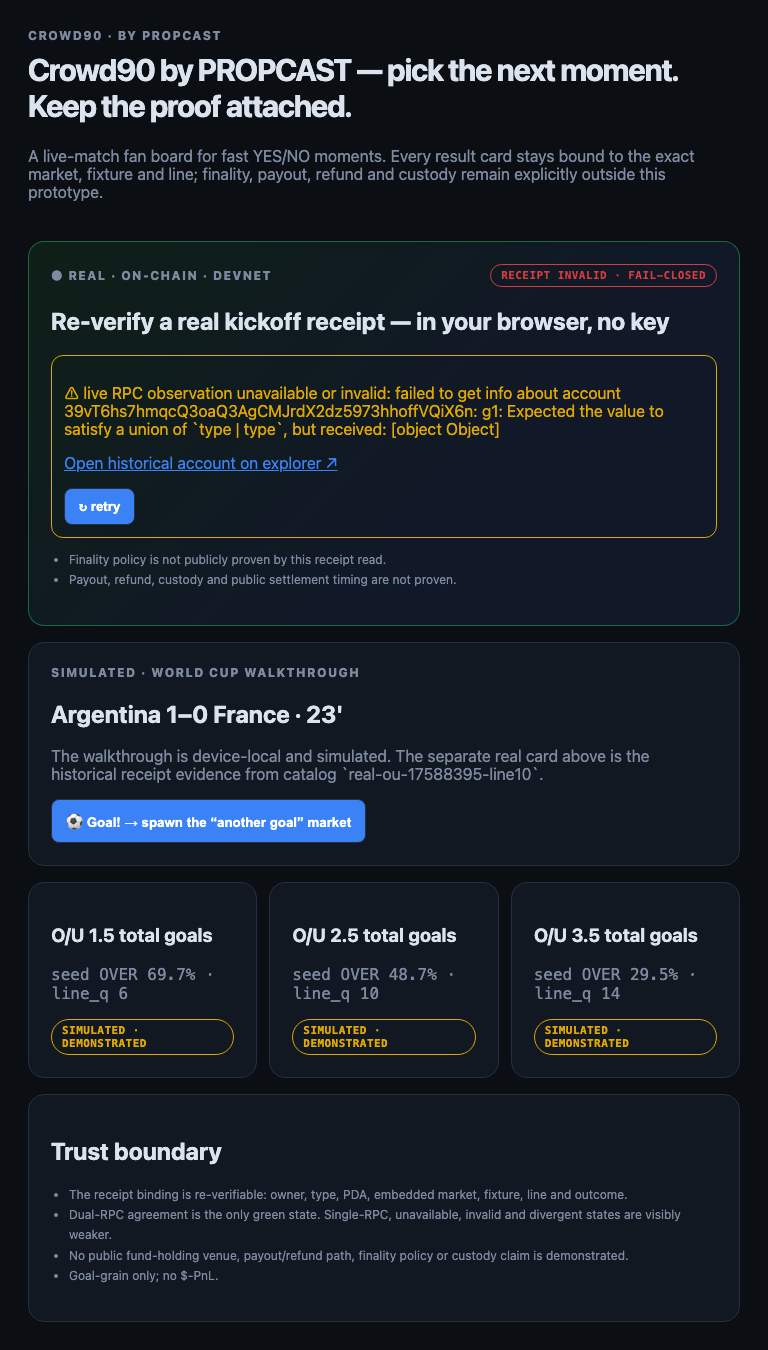
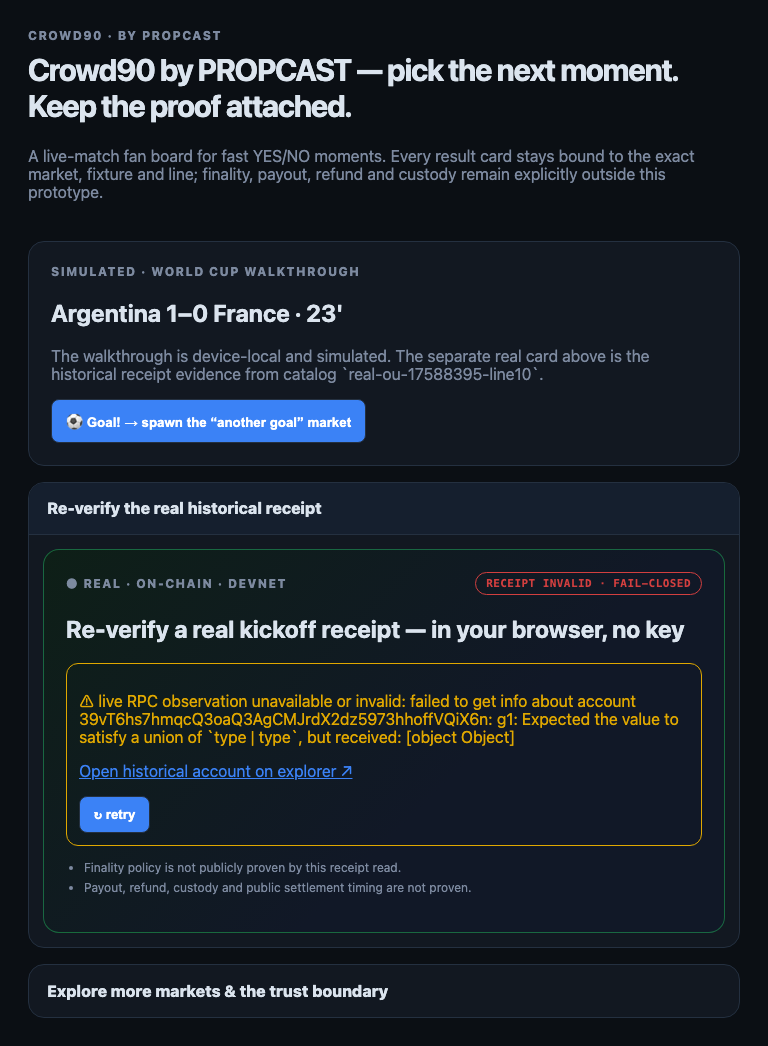
feat: make Crowd90 fan-first with progressive proof

Changed region(s): [[0.0312, 0.0, 0.9688, 0.7954], [0.0625, 0.826, 0.9062, 0.979], [0.9062, 0.7648, 0.9375, 0.7954]]

diff --git a/ui/src/App.tsx b/ui/src/App.tsx
@@ -79,10 +79,6 @@ export function App() {
           </div>
         </section>
 
-        <Suspense fallback={<section className="card"><p className="muted">loading verifier workbench…</p></section>}>
-          <VerificationWorkbench mode="real" />
-        </Suspense>
-
         <section className="card" aria-labelledby="match-title">
           <div className="eyebrow">Simulated · World Cup walkthrough</div>
           <h2 id="match-title">Argentina 1–0 France · 23'</h2>
@@ -146,6 +142,15 @@ export function App() {
           </section>
         )}
 
+        <details className="disclosure">
+          <summary>Re-verify the real historical receipt</summary>
+          <Suspense fallback={<section className="card"><p className="muted">Loading verifier workbench…</p></section>}>
+            <VerificationWorkbench mode="real" />
+          </Suspense>
+        </details>
+
+        <details className="disclosure">
+          <summary>Explore more markets & the trust boundary</summary>
         <section className="grid" aria-label="Goal-grain market discovery">
           {TOTAL_GOALS_LINES.map(({ line, odds }) => (
             <article key={line} className="card">
@@ -165,6 +170,7 @@ export function App() {
             <li>Goal-grain only; no $-PnL.</li>
           </ul>
         </section>
+        </details>
       </div>
     </main>
   );

diff --git a/ui/src/app.css b/ui/src/app.css
@@ -30,6 +30,12 @@ button:focus-visible, a:focus-visible { outline: 3px solid var(--warn); outline-
 
 .app-shell { min-height: 100vh; padding: clamp(14px, 4vw, 28px); }
 .board { max-width: 1040px; margin: 0 auto; display: grid; gap: 16px; }
+.disclosure { border: 1px solid var(--border); border-radius: 16px; background: var(--panel); overflow: clip; }
+.disclosure > summary { min-height: 52px; display: flex; align-items: center; cursor: pointer; padding: 0 18px; color: var(--text); font-weight: 800; }
+.disclosure > summary:hover { background: #151f2e; }
+.disclosure > summary:focus-visible { outline: 3px solid var(--warn); outline-offset: -4px; }
+.disclosure[open] > summary { border-bottom: 1px solid var(--border); }
+.disclosure > .card, .disclosure > .grid { margin: 14px; }
 .hero { display: grid; gap: 8px; }
 .hero h1 { margin: 0; font-size: clamp(23px, 4vw, 42px); letter-spacing: -0.04em; }
 .muted { color: var(--dim); }

diff --git a/ui/e2e/board.spec.ts b/ui/e2e/board.spec.ts
@@ -20,6 +20,9 @@ test.beforeEach(async ({ page }) => {
 test("responsive evidence board has no horizontal overflow and honest state text", async ({ page }, testInfo) => {
   await page.goto("/");
   await expect(page.getByRole("heading", { name: /PROPCAST/i })).toBeVisible();
+  const receiptDisclosure = page.getByText(/Re-verify the real historical receipt/i);
+  await expect(receiptDisclosure).toBeVisible();
+  await receiptDisclosure.click();
   await expect(page.getByRole("heading", { name: /Re-verify a real kickoff receipt/i })).toBeVisible();
   await expect(page.getByText(/RECEIPT UNAVAILABLE|RECEIPT INVALID/i)).toBeVisible();
   await expect(page.getByText(/Finality policy is not publicly proven/i)).toBeVisible();